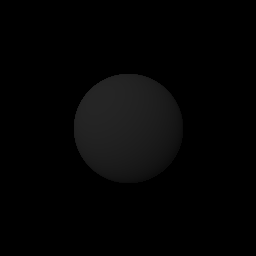
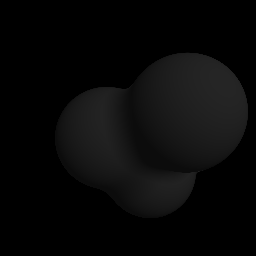
feat: 他視点に対応

diff --git a/src/main.rs b/src/main.rs
@@ -3,8 +3,98 @@ use burn::backend::{Autodiff, Wgpu};
 use burn::module::{Module, Param};
 use burn::optim::{AdamConfig, GradientsParams, Optimizer};
 use burn::prelude::*;
+use burn::tensor::Distribution;
 use burn::tensor::activation;
 use image::{ColorType, save_buffer};
+
+// --- 0. 依存なしの簡易算術ヘルパー ---
+mod math {
+    pub type Vec3 = [f32; 3];
+
+    pub fn normalize(v: Vec3) -> Vec3 {
+        let len = (v[0] * v[0] + v[1] * v[1] + v[2] * v[2]).sqrt();
+        if len == 0.0 {
+            [0.0, 0.0, 0.0]
+        } else {
+            [v[0] / len, v[1] / len, v[2] / len]
+        }
+    }
+
+    pub fn sub(a: Vec3, b: Vec3) -> Vec3 {
+        [a[0] - b[0], a[1] - b[1], a[2] - b[2]]
+    }
+
+    pub fn cross(a: Vec3, b: Vec3) -> Vec3 {
+        [
+            a[1] * b[2] - a[2] * b[1],
+            a[2] * b[0] - a[0] * b[2],
+            a[0] * b[1] - a[1] * b[0],
+        ]
+    }
+}
+
+// --- 1. 完全なカメラレイ生成関数 (LookAt対応) ---
+fn create_camera_rays<B: Backend>(
+    width: usize,
+    height: usize,
+    eye: [f32; 3],    // カメラの位置
+    target: [f32; 3], // カメラが見る点
+    fov_deg: f32,     // 画角 (例: 60.0)
+    device: &B::Device,
+) -> (Tensor<B, 2>, Tensor<B, 2>) {
+    let num_rays = width * height;
+
+    // 1. カメラ座標系の基底ベクトルを計算
+    let world_up = [0.0, 1.0, 0.0];
+    let forward = math::normalize(math::sub(target, eye)); // Z+ (Look Dir)
+    let right = math::normalize(math::cross(forward, world_up)); // X+
+    let up = math::cross(right, forward); // Y+
+
+    // 2. 画角から焦点距離などを計算
+    // aspect ratio
+    let aspect = width as f32 / height as f32;
+    // FOVから画面の大きさを逆算 (tan(theta/2))
+    let theta = fov_deg.to_radians() / 2.0;
+    let half_height = theta.tan();
+    let half_width = aspect * half_height;
+
+    // 3. 全ピクセルのレイ方向を計算
+
+    let mut dirs = Vec::with_capacity(num_rays * 3);
+
+    for y in 0..height {
+        for x in 0..width {
+            // UV座標 (-1.0 ~ 1.0)
+            // Y軸は上がプラスになるように反転させるのが一般的
+            let u = (x as f32 / width as f32) * 2.0 - 1.0;
+            let v = -((y as f32 / height as f32) * 2.0 - 1.0);
+
+            // スクリーン上の点へのベクトル (Camera Space)
+            // ray = u * Right * half_width + v * Up * half_height + Forward
+            let r_scale = u * half_width;
+            let u_scale = v * half_height;
+
+            let dx = right[0] * r_scale + up[0] * u_scale + forward[0];
+            let dy = right[1] * r_scale + up[1] * u_scale + forward[1];
+            let dz = right[2] * r_scale + up[2] * u_scale + forward[2];
+
+            // Normalize
+            let len = (dx * dx + dy * dy + dz * dz).sqrt();
+            dirs.push(dx / len);
+            dirs.push(dy / len);
+            dirs.push(dz / len);
+        }
+    }
+
+    // Tensor作成
+    let ray_org = Tensor::<B, 1>::from_floats(eye, device)
+        .reshape([1, 3])
+        .repeat_dim(0, num_rays); // [N, 3]
+
+    let ray_dir = Tensor::<B, 1>::from_floats(dirs.as_slice(), device).reshape([num_rays, 3]); // [N, 3]
+
+    (ray_org, ray_dir)
+}
 
 // --- 1. モデル定義 (Module) ---
 #[derive(Module, Debug)]
@@ -140,6 +230,7 @@ fn render<B: Backend>(
     let light_dir = light_dir.clone() / (light_dir.powf_scalar(2.0).sum().sqrt() + 1e-6);
     let diffuse = (normal * light_dir.unsqueeze()).sum_dim(1).clamp_min(0.0);
     let lighting = diffuse + 0.1;
+    // let lighting = Tensor::<B, 2>::ones([num_rays, 1], &device);
 
     // 3. Color Blending (N球混合)
     let mut weight_sum = Tensor::<B, 2>::zeros([num_rays, 1], &device) + 1e-5;
@@ -188,24 +279,36 @@ fn main() {
     let height = 256;
     let num_rays = width * height;
 
-    // Ray Origin
-    let ray_org = Tensor::<MyBackend, 1>::from_floats([0.0, 0.0, -2.0], &device)
-        .unsqueeze()
-        .repeat_dim(0, num_rays);
+    // --- 1. カメラ設定 (3視点) ---
+    // Camera 1: 正面
+    let (ray_org_1, ray_dir_1) = create_camera_rays::<MyBackend>(
+        width,
+        height,
+        [0.0, 0.0, -2.5], // Eye: 上手前
+        [0.0, 0.0, 0.0],  // Target: 中心
+        50.0,             // FOV: 50度
+        &device,
+    );
 
-    // Ray Direction
-    let mut dirs = Vec::with_capacity(num_rays * 3);
-    for y in 0..height {
-        for x in 0..width {
-            let u = (x as f32 / width as f32) * 2.0 - 1.0;
-            let v = -((y as f32 / height as f32) * 2.0 - 1.0);
-            dirs.push(u);
-            dirs.push(v);
-            dirs.push(1.0);
-        }
-    }
-    let ray_dir =
-        Tensor::<MyBackend, 1>::from_floats(dirs.as_slice(), &device).reshape([num_rays, 3]);
+    // Camera 2: 真横 (右から)
+    let (ray_org_2, ray_dir_2) = create_camera_rays::<MyBackend>(
+        width,
+        height,
+        [2.5, 0.0, 0.0], // Eye: 右
+        [0.0, 0.0, 0.0], // Target: 中心
+        50.0,            // FOV
+        &device,
+    );
+
+    // Camera 3: 真上(少しずらす)
+    let (ray_org_3, ray_dir_3) = create_camera_rays::<MyBackend>(
+        width,
+        height,
+        [0.0, 2.5, -0.001], // Eye: 上
+        [0.0, 0.0, 0.0],    // Target: 中心
+        50.0,               // FOV
+        &device,
+    );
 
     // --- Target: 3つの球 (Radius違い) ---
     // 左(赤,大), 中(緑,小), 右(青,中)
@@ -229,49 +332,83 @@ fn main() {
     )
     .reshape([3, 1]); // [3, 1]
 
-    // 正解画像作成 (モデルを使わず直接関数を呼ぶ)
-    let target_img = render(
-        ray_org.clone(),
-        ray_dir.clone(),
+    // 正解画像を2枚作る (Front & Side)
+    let target_img_1 = render(
+        ray_org_1.clone(),
+        ray_dir_1.clone(),
+        target_centers.clone(),
+        target_colors.clone(),
+        target_radii.clone(),
+    )
+    .detach();
+    let target_img_2 = render(
+        ray_org_2.clone(),
+        ray_dir_2.clone(),
         target_centers.clone(),
         target_colors.clone(),
         target_radii.clone(),
     )
     .detach();
     save_tensor_as_image(
-        target_img.clone(),
+        target_img_1.clone(),
         width as u32,
         height as u32,
-        "target.png",
+        "target_1.png",
+    );
+    save_tensor_as_image(
+        target_img_2.clone(),
+        width as u32,
+        height as u32,
+        "target_2.png",
+    );
+
+    let target_img_3 = render(
+        ray_org_3.clone(),
+        ray_dir_3.clone(),
+        target_centers.clone(),
+        target_colors.clone(),
+        target_radii.clone(),
+    )
+    .detach();
+    save_tensor_as_image(
+        target_img_3.clone(),
+        width as u32,
+        height as u32,
+        "target_3.png",
     );
 
     // --- Model Init ---
     // 初期値: 中央付近に(N=3)(shape [N,3])
-    let init_centers = Tensor::<MyBackend, 1>::zeros([9], &device).reshape([3, 3]);
+    let init_centers =
+        Tensor::<MyBackend, 1>::random([3, 3], Distribution::Uniform(-0.5, 0.5), &device)
+            .reshape([3, 3]);
 
     let init_logits = Tensor::<MyBackend, 1>::zeros([9], &device).reshape([3, 3]);
 
-    let init_radii = Tensor::<MyBackend, 1>::zeros([3], &device).reshape([3, 1]);
+    let init_radii = Tensor::<MyBackend, 1>::from_floats([-0.5; 3], &device).reshape([3, 1]);
 
     let mut model = SceneModel::new(init_centers, init_logits, init_radii);
     let mut optim = AdamConfig::new().init();
 
     println!("Start Optimization (Metaballs)...");
-    let lr = 0.1;
+    let lr = 0.2;
 
     for i in 0..200 {
-        let img = model.forward(ray_org.clone(), ray_dir.clone());
+        let img1 = model.forward(ray_org_1.clone(), ray_dir_1.clone());
+        let img2 = model.forward(ray_org_2.clone(), ray_dir_2.clone());
+        let img3 = model.forward(ray_org_3.clone(), ray_dir_3.clone());
 
         if i % 20 == 0 {
             save_tensor_as_image(
-                img.clone(),
+                img1.clone(),
                 width as u32,
                 height as u32,
                 &format!("step_{}.png", i),
             );
         }
-
-        let loss = (img - target_img.clone()).powf_scalar(2.0).mean();
+        let loss = (img1 - target_img_1.clone()).powf_scalar(2.0).mean()
+            + (img2 - target_img_2.clone()).powf_scalar(2.0).mean()
+            + (img3 - target_img_3.clone()).powf_scalar(2.0).mean();
 
         let grads = loss.backward();
 
@@ -291,10 +428,30 @@ fn main() {
     }
 
     println!(
-        "Final Result:\n  Pos: {}\n  Col: {}",
+        "Final Result:\n  Pos: {}\n  Col: {}\n  Rad: {}",
         model.centers.val(),
         activation::sigmoid(model.colors.val()),
+        activation::softplus(model.radius.val(), 1.0),
     );
-    let img = model.forward(ray_org.clone(), ray_dir.clone());
-    save_tensor_as_image(img.clone(), width as u32, height as u32, "final.png");
+    let final_img1 = model.forward(ray_org_1.clone(), ray_dir_1.clone());
+    let final_img2 = model.forward(ray_org_2.clone(), ray_dir_2.clone());
+    let final_img3 = model.forward(ray_org_3.clone(), ray_dir_3.clone());
+    save_tensor_as_image(
+        final_img1.clone(),
+        width as u32,
+        height as u32,
+        "final_1.png",
+    );
+    save_tensor_as_image(
+        final_img2.clone(),
+        width as u32,
+        height as u32,
+        "final_2.png",
+    );
+    save_tensor_as_image(
+        final_img3.clone(),
+        width as u32,
+        height as u32,
+        "final_3.png",
+    );
 }
